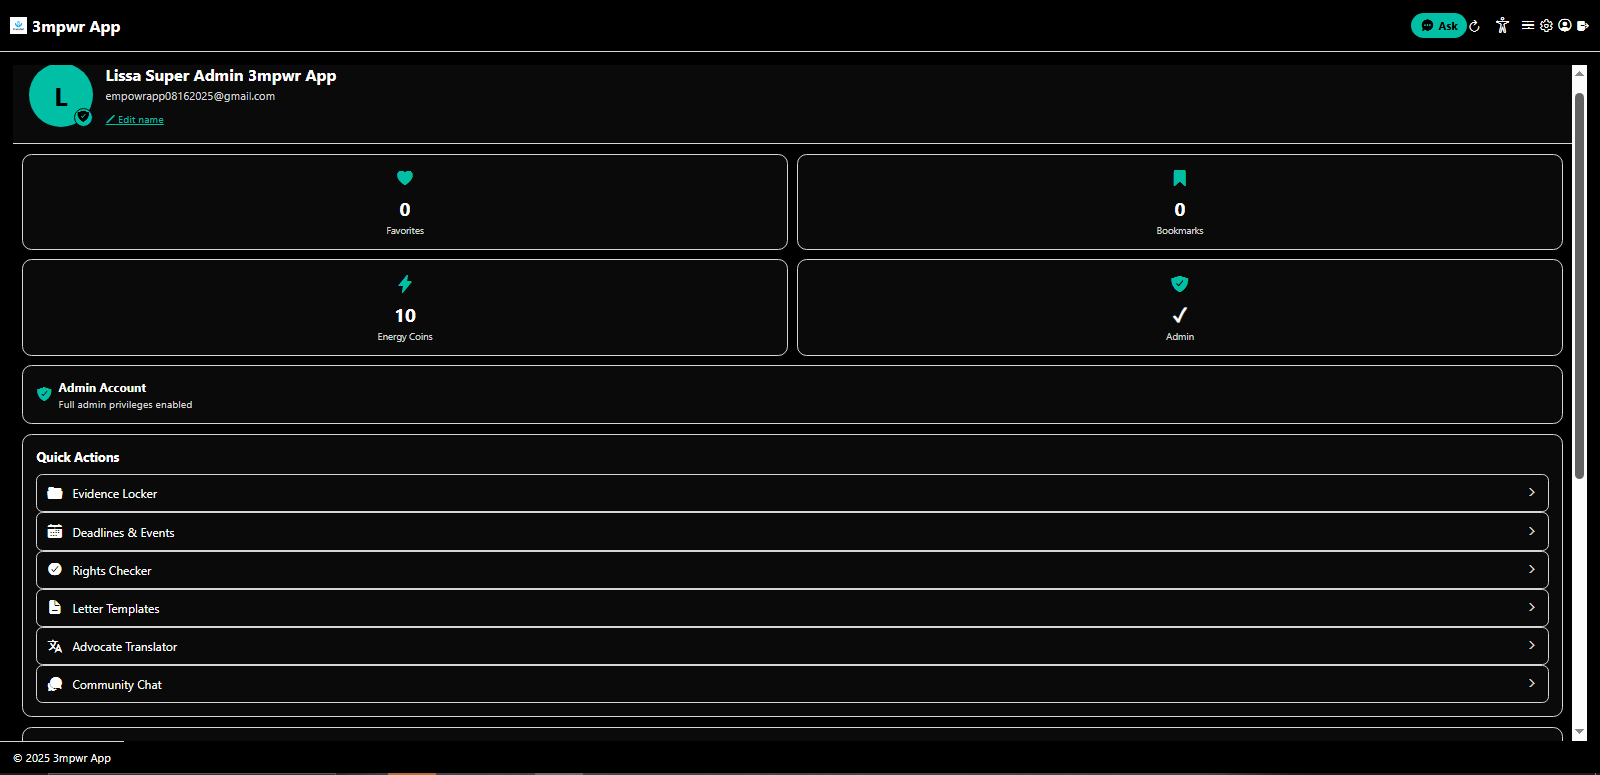
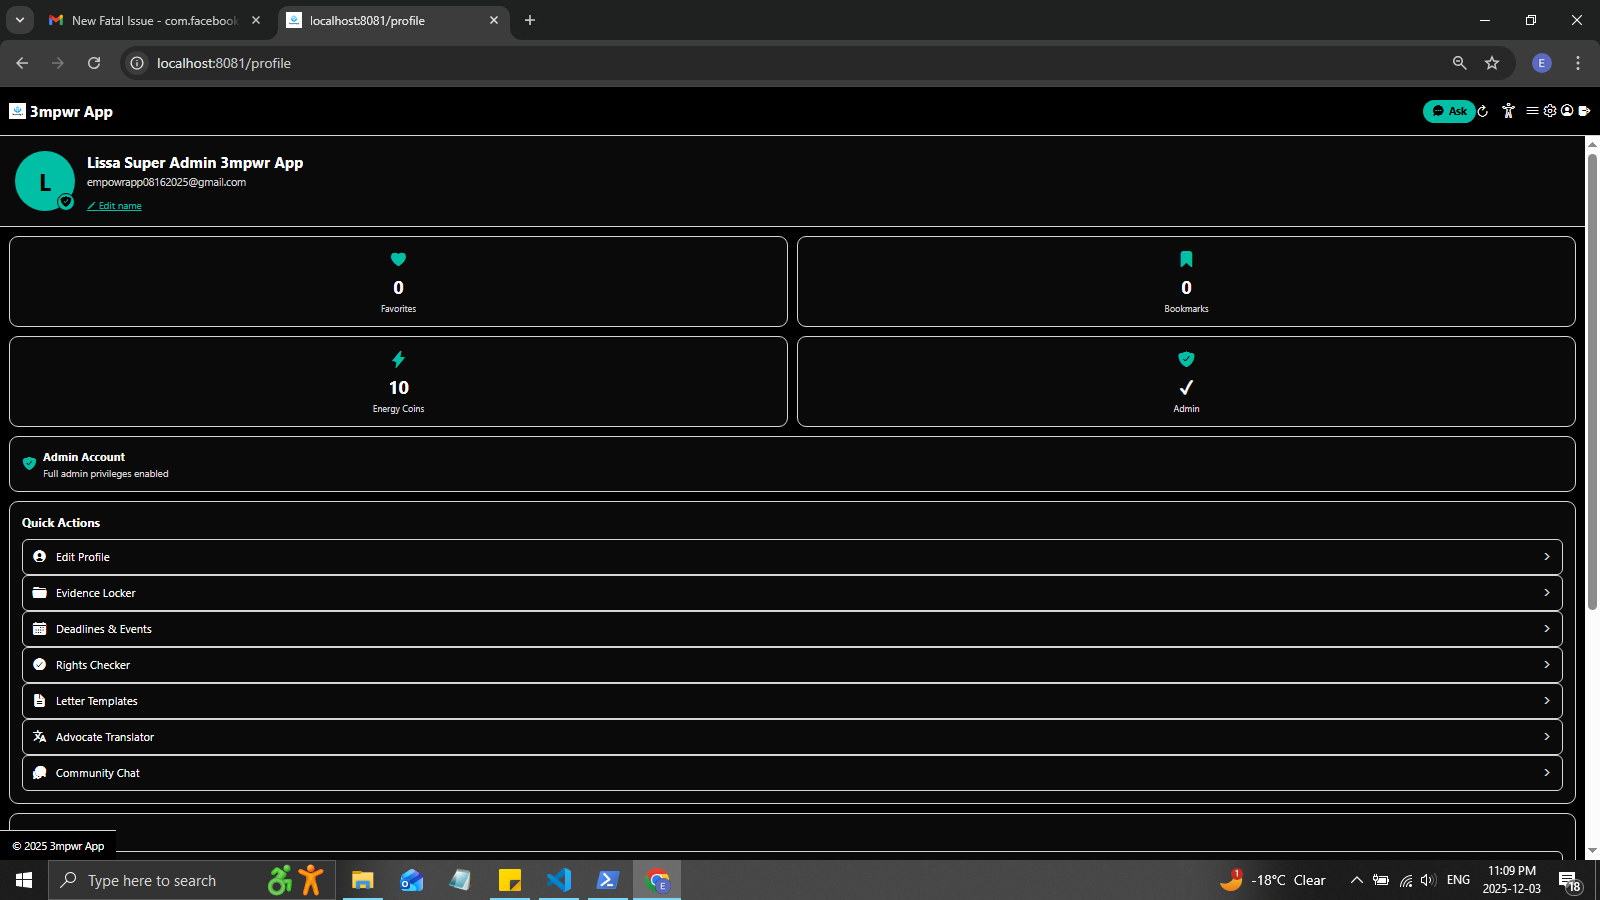
Add new Community and Profile images to App Tour
Community (3 new):
- communitytab13mpwrapp.png - Community Features
- communitytab23mpwrapp.png - Community Support
- communitytab3discord3mpwrapp.png - Discord Integration

Profile (6 new):
- profileedit13mpwrapp.png - Edit Profile
- profileedit33mpwrapp.png - Health Info
- profileedit43mpwrapp.png - Work History
- profileedit53mpwrapp.png - Case Details
- profileedit63mpwrapp.png - Accessibility Prefs
- profileedit73mpwrapp.png - Notifications

Changed region(s): [[0.0, 0.0, 1.0, 1.0], [0.4688, 0.3097, 0.5, 0.3716], [0.0, 0.3406, 0.0312, 0.4026]]

diff --git a/app-tour.md b/app-tour.md
@@ -634,6 +634,18 @@ permalink: /app-tour/
       <div class="caption">Community Hub</div>
     </div>
     <div class="preview-card">
+      <img src="/assets/images/screenshots/1-Official3mpwrAppScreenshots/laptop/community/communitytab13mpwrapp.png" alt="Community features and groups" loading="lazy">
+      <div class="caption">Community Features</div>
+    </div>
+    <div class="preview-card">
+      <img src="/assets/images/screenshots/1-Official3mpwrAppScreenshots/laptop/community/communitytab23mpwrapp.png" alt="Community discussions and support" loading="lazy">
+      <div class="caption">Community Support</div>
+    </div>
+    <div class="preview-card">
+      <img src="/assets/images/screenshots/1-Official3mpwrAppScreenshots/laptop/community/communitytab3discord3mpwrapp.png" alt="Discord integration for community chat" loading="lazy">
+      <div class="caption">Discord Integration</div>
+    </div>
+    <div class="preview-card">
       <img src="/assets/images/screenshots/1-Official3mpwrAppScreenshots/laptop/community/testerschatcommunitytab3mpwrapp.png" alt="Beta Testers Chat room" loading="lazy">
       <div class="caption">Beta Testers Chat</div>
     </div>
@@ -654,6 +666,30 @@ permalink: /app-tour/
     <div class="preview-card">
       <img src="/assets/images/screenshots/1-Official3mpwrAppScreenshots/laptop/profile/profile/profile23mpwrapp.png" alt="Profile settings and customization" loading="lazy">
       <div class="caption">Profile Settings</div>
+    </div>
+    <div class="preview-card">
+      <img src="/assets/images/screenshots/1-Official3mpwrAppScreenshots/laptop/profile/profile/profileedit13mpwrapp.png" alt="Edit profile personal information" loading="lazy">
+      <div class="caption">Edit Profile</div>
+    </div>
+    <div class="preview-card">
+      <img src="/assets/images/screenshots/1-Official3mpwrAppScreenshots/laptop/profile/profile/profileedit33mpwrapp.png" alt="Profile health information" loading="lazy">
+      <div class="caption">Health Info</div>
+    </div>
+    <div class="preview-card">
+      <img src="/assets/images/screenshots/1-Official3mpwrAppScreenshots/laptop/profile/profile/profileedit43mpwrapp.png" alt="Profile work history" loading="lazy">
+      <div class="caption">Work History</div>
+    </div>
+    <div class="preview-card">
+      <img src="/assets/images/screenshots/1-Official3mpwrAppScreenshots/laptop/profile/profile/profileedit53mpwrapp.png" alt="Profile legal case details" loading="lazy">
+      <div class="caption">Case Details</div>
+    </div>
+    <div class="preview-card">
+      <img src="/assets/images/screenshots/1-Official3mpwrAppScreenshots/laptop/profile/profile/profileedit63mpwrapp.png" alt="Profile accessibility preferences" loading="lazy">
+      <div class="caption">Accessibility Prefs</div>
+    </div>
+    <div class="preview-card">
+      <img src="/assets/images/screenshots/1-Official3mpwrAppScreenshots/laptop/profile/profile/profileedit73mpwrapp.png" alt="Profile notification settings" loading="lazy">
+      <div class="caption">Notifications</div>
     </div>
   </div>
 </section>
